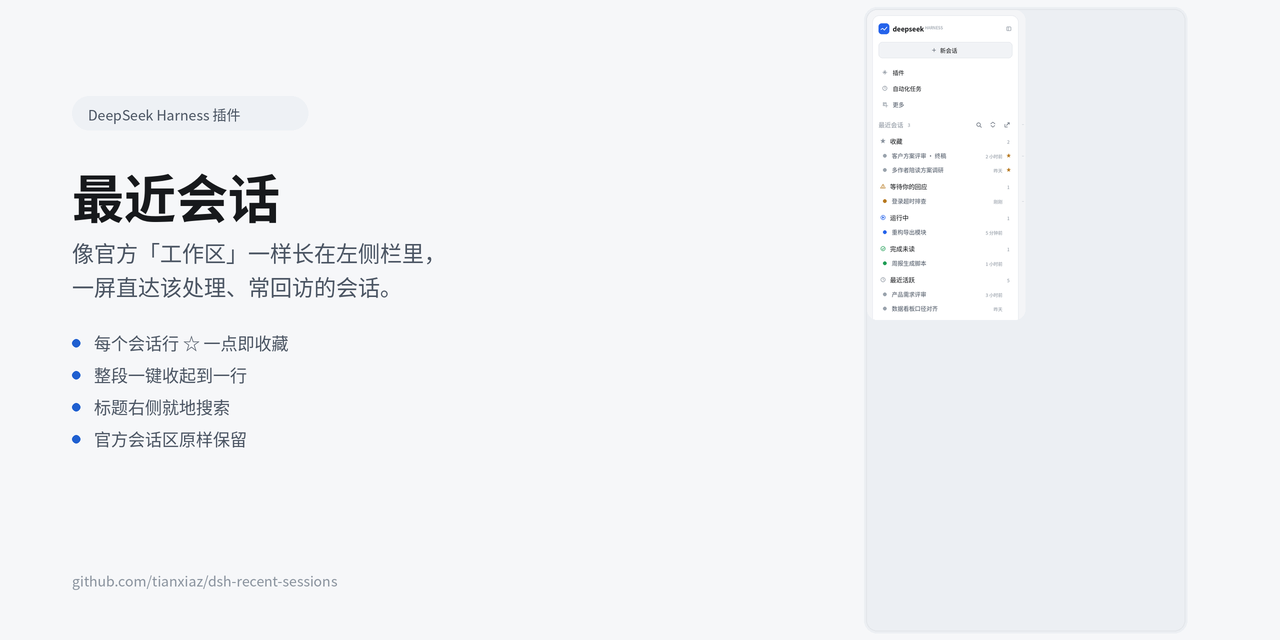
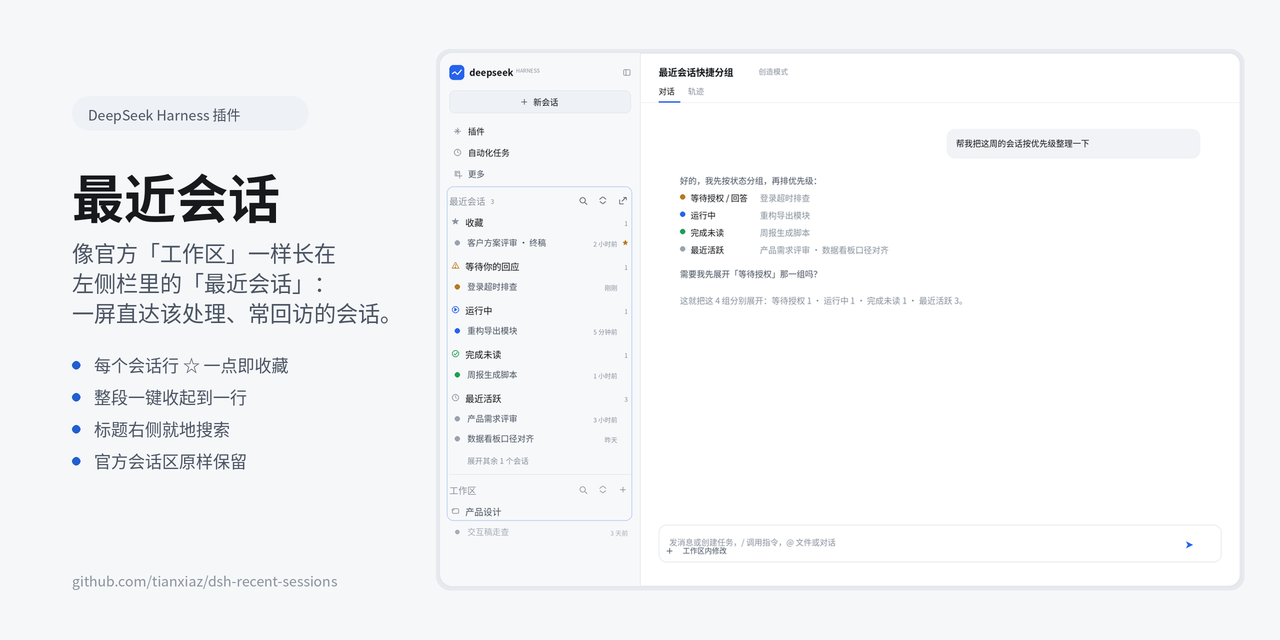
docs: desktop window mock; social card and landing page use it

diff --git a/index.html b/index.html
@@ -72,8 +72,13 @@
       </p>
 
       <figure>
+        <img src="./docs/preview-desktop-light.png" alt="在 DSH 桌面窗口中：左栏的最近会话分区与对话区" />
+        <figcaption>整窗示意 · 左栏「最近会话」与对话区共处一屏（演示数据）</figcaption>
+      </figure>
+
+      <figure>
         <img src="./docs/preview-light.png" alt="最近会话分区示意（演示数据）" />
-        <figcaption>示意图 · 演示数据，非真实会话</figcaption>
+        <figcaption>细节 · 与官方「工作区」同一套网格</figcaption>
       </figure>
 
       <figure>

diff --git a/docs/make-desktop.py b/docs/make-desktop.py
@@ -1,0 +1,210 @@
+#!/usr/bin/env python3
+"""Render docs/preview-desktop-light.png: a desktop window mock (demo data).
+
+Left column = the sidebar with the Recent sessions section, center = a clean
+conversation, so the social card can show the plugin in its real context.
+"""
+from PIL import Image, ImageDraw, ImageFont
+
+FONT = '/usr/share/fonts/opentype/noto/NotoSansCJK-Regular.ttc'
+FONT_BOLD = '/usr/share/fonts/opentype/noto/NotoSansCJK-Bold.ttc'
+SC, S = 2, 2
+
+def f(size, bold=False):
+    return ImageFont.truetype(FONT_BOLD if bold else FONT, size * S, index=SC)
+
+C = dict(bg='#f4f5f7', panel='#ffffff', side='#f7f8fa', border='#e3e6ea', divider='#eceff3',
+         text='#17191c', sec='#4b5563', ter='#8a939e', dim='#a6aeb8',
+         accent='#2563eb', warn='#b7791f', ok='#1f9d55', idle='#9aa3ad', gold='#b7791f',
+         bubble='#f1f3f6', side2='#eef1f5')
+
+W, H = 1200, 800
+img = Image.new('RGB', (W * S, H * S), '#e9ecf0')
+d = ImageDraw.Draw(img)
+
+def rr(x, y, w, h, r, fill=None, outline=None, width=1):
+    box = [x * S, y * S, (x + w) * S, (y + h) * S]
+    if fill is None and outline is None:
+        return
+    if outline is None:
+        d.rounded_rectangle(box, radius=r * S, fill=fill)
+    else:
+        d.rounded_rectangle(box, radius=r * S, fill=fill, outline=outline, width=int(width * S))
+
+def tx(x, y, s, size=13, color=None, bold=False, anchor='la'):
+    d.text((x * S, y * S), s, font=f(size, bold), fill=color or C['text'], anchor=anchor)
+
+def ln(pts, color, width=1):
+    d.line([(x * S, y * S) for x, y in pts], fill=color, width=int(width * S), joint='curve')
+
+def dot(x, y, r, color):
+    d.ellipse([(x - r) * S, (y - r) * S, (x + r) * S, (y + r) * S], fill=color)
+
+def ring(x, y, r, color, width=1.2):
+    d.ellipse([(x - r) * S, (y - r) * S, (x + r) * S, (y + r) * S], outline=color, width=int(width * S))
+
+def star(cx, cy, r, color):
+    import math
+    pts = []
+    for i in range(10):
+        ang = -math.pi / 2 + i * math.pi / 5
+        rad = r if i % 2 == 0 else r * 0.45
+        pts.append((cx + rad * math.cos(ang), cy + rad * math.sin(ang)))
+    d.polygon([(x * S, y * S) for x, y in pts], fill=color)
+
+def g_search(x, y, c):
+    ring(x, y, 4.2, c, 1.4); ln([(x + 3, y + 3), (x + 6, y + 6)], c, 1.4)
+
+def g_chev(x, y, c):
+    ln([(x - 4.5, y - 1.6), (x, y - 5.4), (x + 4.5, y - 1.6)], c, 1.4)
+    ln([(x - 4.5, y + 1.6), (x, y + 5.4), (x + 4.5, y + 1.6)], c, 1.4)
+
+def g_open(x, y, c):
+    ln([(x + 1, y - 4.4), (x + 5, y - 4.4), (x + 5, y - 0.4)], c, 1.3)
+    ln([(x + 4.8, y - 4.2), (x - 1.2, y + 1.8)], c, 1.3)
+    ln([(x - 5, y - 1), (x - 5, y + 5), (x + 1, y + 5)], c, 1.3)
+
+def g_folder(x, y, c):
+    rr(x - 5.2, y - 3.4, 10.4, 7.4, 1.6, outline=c, width=1.2)
+    ln([(x - 5.2, y - 1.4), (x - 2.4, y - 1.4), (x - 1.4, y - 3.4)], c, 1.2)
+
+def g_star(x, y, c): star(x, y, 5.4, c)
+def g_warn(x, y, c):
+    ln([(x, y - 5), (x + 5, y + 4), (x - 5, y + 4), (x, y - 5)], c, 1.3)
+    ln([(x, y - 1.6), (x, y + 1.2)], c, 1.3); dot(x, y + 3, 0.8, c)
+
+def g_play(x, y, c):
+    ring(x, y, 5, c, 1.2)
+    d.polygon([((x - 1.4) * S, (y - 2.6) * S), ((x - 1.4) * S, (y + 2.6) * S), ((x + 2.6) * S, y * S)], fill=c)
+
+def g_check(x, y, c):
+    ring(x, y, 5, c, 1.2); ln([(x - 2.2, y + 0.2), (x - 0.4, y + 2), (x + 3, y - 2)], c, 1.4)
+
+def g_clock(x, y, c):
+    ring(x, y, 5, c, 1.2); ln([(x, y - 2.6), (x, y), (x + 2.2, y + 1.4)], c, 1.2)
+
+def g_plus(x, y, c):
+    ln([(x - 4, y), (x + 4, y)], c, 1.3); ln([(x, y - 4), (x, y + 4)], c, 1.3)
+
+def g_panel(x, y, c):
+    rr(x - 5, y - 4.4, 10, 8.8, 1.6, outline=c, width=1.2); ln([(x - 1.2, y - 4.4), (x - 1.2, y + 4.4)], c, 1.2)
+
+def g_sparkle(x, y, c):
+    ln([(x, y - 5), (x, y + 5)], c, 1.3); ln([(x - 5, y), (x + 5, y)], c, 1.3)
+    ln([(x - 2.6, y - 2.6), (x + 2.6, y + 2.6)], c, 1.1); ln([(x - 2.6, y + 2.6), (x + 2.6, y - 2.6)], c, 1.1)
+
+def g_loop(x, y, c):
+    ring(x, y, 5, c, 1.2); ln([(x, y - 3.4), (x, y), (x + 2.4, y + 0.6)], c, 1.1)
+
+def g_grid(x, y, c):
+    for dx, dy in ((-2.6, -2.6), (1.6, -2.6), (-2.6, 1.6)):
+        rr(x + dx - 1.6, y + dy - 1.6, 3.4, 3.4, 0.8, outline=c, width=1.1)
+    g_plus(x + 3.2, y + 3.2, c)
+
+def g_send(x, y, c):
+    d.polygon([((x - 5) * S, (y - 5) * S), ((x + 5) * S, y * S), ((x - 5) * S, (y + 5) * S), ((x - 2.5) * S, y * S)], fill=c)
+
+# window
+rr(0, 0, W, H, 16, fill=C['panel'], outline=C['border'])
+# sidebar
+rr(0, 0, 300, H, 16, fill=C['side'])
+d.rectangle([0, 0, 300 * S, H * S], fill=C['side'])
+ln([(300, 0), (300, H)], C['border'], 1)
+x, y, w = 14, 18, 272
+
+rr(x, y, 22, 22, 6, fill=C['accent'])
+ln([(x + 4, y + 13), (x + 8, y + 10), (x + 12, y + 14), (x + 18, y + 7)], '#ffffff', 1.5)
+tx(x + 30, y + 0, 'deepseek', 14, C['text'], bold=True)
+tx(x + 100, y + 2, 'HARNESS', 8, C['ter'])
+g_panel(x + w - 6, y + 11, C['ter'])
+y += 38
+rr(x, y, w, 34, 8, fill=C['side2'], outline=C['border'])
+g_plus(x + w / 2 - 24, y + 17, C['sec']); tx(x + w / 2 - 10, y + 8, '新会话', 12.5, C['text'])
+y += 46
+for label, gl in (('插件', g_sparkle), ('自动化任务', g_loop)):
+    gl(x + 12, y + 15, C['ter']); tx(x + 28, y + 6, label, 12.5, C['text']); y += 32
+g_grid(x + 12, y + 15, C['ter']); tx(x + 28, y + 6, '更多', 12.5, C['sec']); y += 38
+
+# our section
+sec_top = y
+tx(x, y + 8, '最近会话', 13.5, C['ter']); tx(x + 62, y + 11, '3', 9.5, C['ter'])
+g_search(x + w - 72, y + 17, C['sec']); g_chev(x + w - 42, y + 17, C['sec']); g_open(x + w - 12, y + 17, C['sec'])
+y += 34
+def cat(icon, name, count, rows, color=None):
+    global y
+    icon(x + 9, y + 15, color or C['ter'])
+    tx(x + 24, y + 6, name, 13.5, C['text'])
+    tx(x + w - 4, y + 10, str(count), 9.5, C['ter'], anchor='ra')
+    y += 32
+    for dc, title, when, fav in rows:
+        dot(x + 12, y + 15, 3.8, dc)
+        tx(x + 27, y + 5, title, 12.5, C['sec'])
+        tx(x + w - 20, y + 9, when, 9.5, C['ter'], anchor='ra')
+        if fav:
+            star(x + w - 8, y + 15, 4.2, C['gold'])
+        y += 30
+    y += 4
+
+cat(g_star, '收藏', 1, [(C['idle'], '客户方案评审 · 终稿', '2 小时前', True)])
+cat(g_warn, '等待你的回应', 1, [(C['warn'], '登录超时排查', '刚刚', False)], C['warn'])
+cat(g_play, '运行中', 1, [(C['accent'], '重构导出模块', '5 分钟前', False)], C['accent'])
+cat(g_check, '完成未读', 1, [(C['ok'], '周报生成脚本', '1 小时前', False)], C['ok'])
+cat(g_clock, '最近活跃', 3, [(C['idle'], '产品需求评审', '3 小时前', False),
+                            (C['idle'], '数据看板口径对齐', '昨天', False)])
+tx(x + 27, y + 5, '展开其余 1 个会话', 11.5, C['ter']); y += 28
+
+ln([(x, y + 6), (x + w, y + 6)], C['border'], 1); y += 12
+tx(x, y + 8, '工作区', 13.5, C['ter'])
+g_search(x + w - 72, y + 17, C['ter']); g_chev(x + w - 42, y + 17, C['ter']); g_plus(x + w - 12, y + 17, C['ter'])
+y += 34
+for group, rows in (('产品设计', [('交互稿走查', '3 天前')]),):
+    g_folder(x + 9, y + 15, C['ter']); tx(x + 24, y + 6, group, 13.5, C['sec']); y += 32
+    for title, when in rows:
+        dot(x + 12, y + 15, 3.2, C['dim']); tx(x + 27, y + 5, title, 12.5, C['dim'])
+        tx(x + w - 4, y + 9, when, 9.5, C['dim'], anchor='ra'); y += 30
+
+# soft highlight around our section
+rr(x - 4, sec_top - 4, w + 6, (y - 34) - sec_top + 6, 10, outline='#c7d7f5', width=1.5)
+
+# center column: header + conversation + composer
+cx0, cw = 300, W - 300
+hh = 74
+ln([(300, hh), (W, hh)], C['divider'], 1)
+tx(cx0 + 28, 18, '最近会话快捷分组', 14, C['text'], bold=True)
+tx(cx0 + 28 + 150, 19, '创造模式', 11, C['ter'])
+tx(cx0 + 28, 48, '对话', 12, C['text'])
+tx(cx0 + 72, 48, '轨迹', 12, C['ter'])
+ln([(cx0 + 28, hh - 1), (cx0 + 60, hh - 1)], C['accent'], 2)
+
+# bubbles
+bx, bw = cx0 + 60, cw - 120
+uy = hh + 40
+rr(bx + bw - 380, uy, 380, 44, 12, fill=C['bubble'])
+tx(bx + bw - 366, uy + 12, '帮我把这周的会话按优先级整理一下', 12.5, C['text'])
+ay = uy + 68
+tx(bx, ay, '好的，我先按状态分组，再排优先级：', 12.5, C['sec'])
+items = [('等待授权 / 回答', '登录超时排查', C['warn']),
+         ('运行中', '重构导出模块', C['accent']),
+         ('完成未读', '周报生成脚本', C['ok']),
+         ('最近活跃', '产品需求评审 · 数据看板口径对齐', C['idle'])]
+ay += 26
+for label, detail, color in items:
+    dot(bx + 4, ay + 8, 3.6, color)
+    tx(bx + 16, ay, label, 12.5, C['text'])
+    tx(bx + 120, ay, detail, 12.5, C['ter'])
+    ay += 26
+ay += 10
+tx(bx, ay, '需要我先展开「等待授权」那一组吗？', 12.5, C['sec'])
+ay += 40
+tx(bx, ay, '这就把这 4 组分别展开：等待授权 1 · 运行中 1 · 完成未读 1 · 最近活跃 3。', 12.5, C['ter'])
+
+# composer
+comp_y = H - 92
+rr(cx0 + 28, comp_y, cw - 56, 56, 12, fill=C['panel'], outline=C['border'])
+tx(cx0 + 44, comp_y + 17, '发消息或创建任务，/ 调用指令，@ 文件或对话', 12, C['ter'])
+g_plus(cx0 + 44, comp_y + 39, C['sec'])
+tx(cx0 + 64, comp_y + 30, '工作区内修改', 11, C['sec'])
+g_send(cx0 + cw - 76, comp_y + 30, C['accent'])
+
+img.resize((W, H), Image.LANCZOS).save('docs/preview-desktop-light.png')
+print('wrote docs/preview-desktop-light.png', (W, H))

diff --git a/docs/make-social.py b/docs/make-social.py
@@ -28,9 +28,9 @@ d.text(((x + 16) * S, (y + 8) * S), 'DeepSeek Harness 插件', font=f(14), fill=
 y += 62
 d.text((x * S, y * S), '最近会话', font=f(52, True), fill=ink)
 y += 78
-for line in ('像官方「工作区」一样长在左侧栏里，', '一屏直达该处理、常回访的会话。'):
+for line in ('像官方「工作区」一样长在', '左侧栏里的「最近会话」：', '一屏直达该处理、常回访的会话。'):
     d.text((x * S, y * S), line, font=f(22), fill=muted)
-    y += 34
+    y += 30
 y += 26
 for item in ('每个会话行 ☆ 一点即收藏', '整段一键收起到一行', '标题右侧就地搜索', '官方会话区原样保留'):
     d.ellipse([x * S, (y + 9) * S, (x + 8) * S, (y + 17) * S], fill=accent)
@@ -39,22 +39,21 @@ for item in ('每个会话行 ☆ 一点即收藏', '整段一键收起到一行
 y = H - 70
 d.text((x * S, y * S), 'github.com/tianxiaz/dsh-recent-sessions', font=f(14), fill=faint)
 
-# right: a legible crop of the sidebar (top part), rounded
-shot = Image.open('docs/preview-light.png').convert('RGB')
-crop = shot.crop((14, 14, 372, 712))          # sidebar panel only, top part
-target_h = 620
-ratio = target_h / crop.height
-crop = crop.resize((int(crop.width * ratio), target_h), Image.LANCZOS)
-mask = Image.new('L', crop.size, 0)
-ImageDraw.Draw(mask).rounded_rectangle([0, 0, crop.width - 1, crop.height - 1], radius=10 * S, fill=255)
-sx = W - crop.width - 96
+# right: a desktop window mock (sidebar + conversation)
+shot = Image.open('docs/preview-desktop-light.png').convert('RGB')
+target_w = 800                                   # logical width
+target_h = int(shot.height * target_w / shot.width)
+shot = shot.resize((target_w * S, target_h * S), Image.LANCZOS)
+mask = Image.new('L', shot.size, 0)
+ImageDraw.Draw(mask).rounded_rectangle([0, 0, shot.width - 1, shot.height - 1], radius=12 * S, fill=255)
+sx = W - target_w - 40
 sy = (H - target_h) // 2
 # soft shadow + border
-d.rounded_rectangle([(sx - 3) * S, (sy - 3) * S, (sx + crop.width + 3) * S, (sy + target_h + 3) * S],
-                    radius=13 * S, fill='#eceff3')
-d.rounded_rectangle([(sx - 1) * S, (sy - 1) * S, (sx + crop.width + 1) * S, (sy + target_h + 1) * S],
-                    radius=11 * S, outline='#e3e6ea', width=1 * S)
-img.paste(crop, (sx * S, sy * S), mask)
+d.rounded_rectangle([(sx - 4) * S, (sy - 4) * S, (sx + target_w + 4) * S, (sy + target_h + 4) * S],
+                    radius=14 * S, fill='#e6eaef')
+d.rounded_rectangle([(sx - 1) * S, (sy - 1) * S, (sx + target_w + 1) * S, (sy + target_h + 1) * S],
+                    radius=13 * S, outline='#e3e6ea', width=1 * S)
+img.paste(shot, (sx * S, sy * S), mask)
 
 img.resize((W, H), Image.LANCZOS).save('docs/social-preview.png')
 print('wrote docs/social-preview.png', (W, H))
